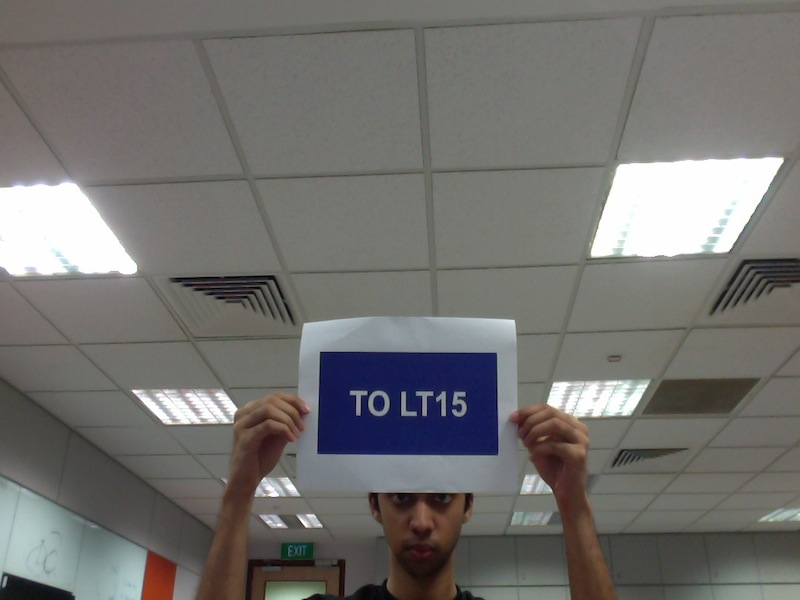
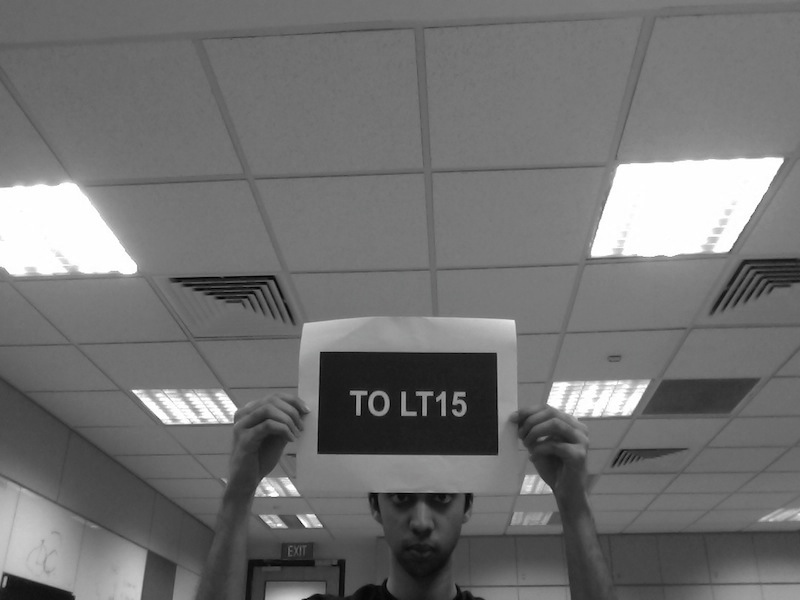
a

diff --git a/Cruncher/algo.py b/Cruncher/algo.py
@@ -57,8 +57,10 @@ def get_text(frame):
     return final
 
 def getthresholdedimg(hsv):
+    black = cv2.inRange(hsv,np.array((0,0,230)),np.array((0,0,255)))
+    white = cv2.inRange(hsv,np.array((0,0,0)),np.array((0,0,30)))
     blue = cv2.inRange(hsv,np.array((100,63,10)),np.array((120,255,255)))
-    both = cv2.add(blue,blue)
+    both = cv2.add(white,blue,black)
     return both
 
 def get_corners(point_arr):

diff --git a/Cruncher/client.py b/Cruncher/client.py
@@ -4,10 +4,10 @@ import cv2
 if __name__ == '__main__':
 
     # Get an iamge
-    school_img = cv2.imread('school6.jpg')
+    school_img = cv2.imread('school2.jpg')
 
     # Open connection to server
-    image_client = ImageClient('54.169.105.67',8000)
+    image_client = ImageClient('localhost',8000)
     image_client.start()
 
     # Stream content and get response
